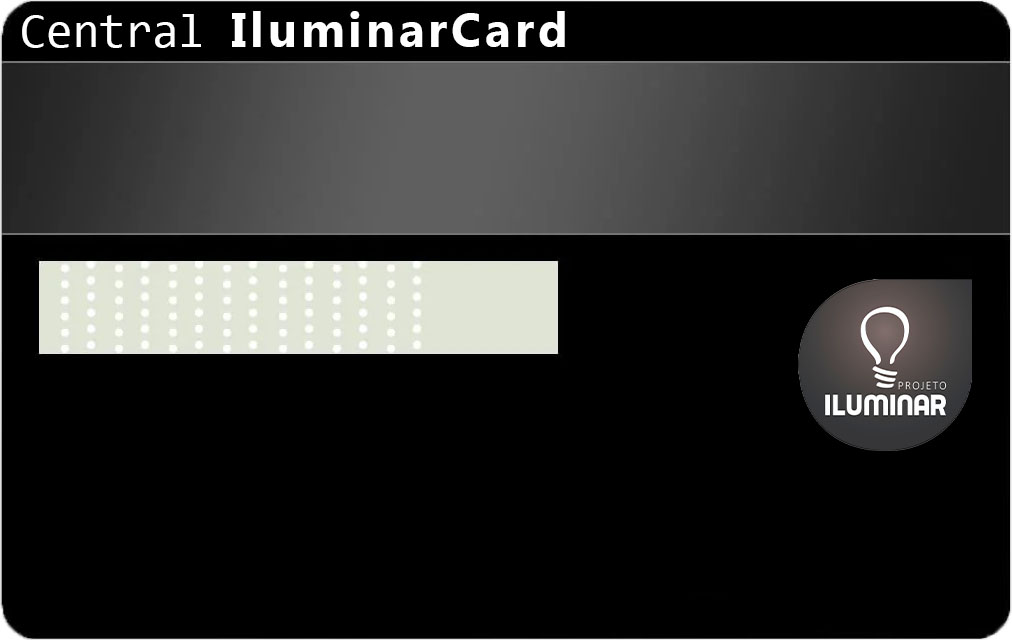
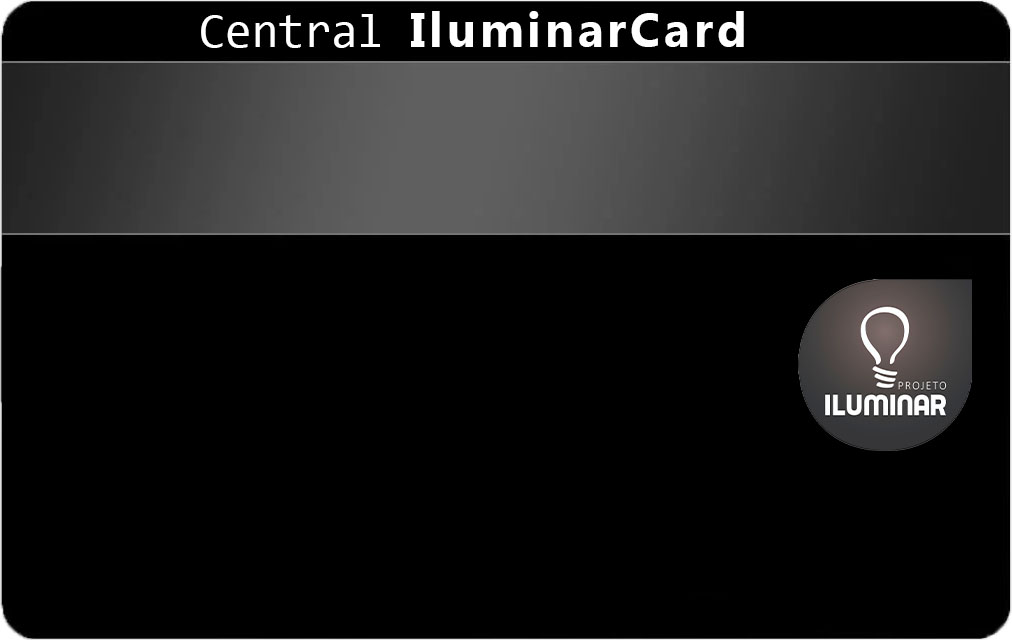
finalizando o projeto

Changed region(s): [[0.0306, 0.4062, 0.5514, 0.5625], [0.0, 0.0, 0.7352, 0.0938]]

diff --git a/src/main/resources/static/style.css b/src/main/resources/static/style.css
@@ -6,7 +6,7 @@ body{font-family: Arial, sans-serif;
      flex-direction: column;
      justify-content: center;
      align-items: center;
-     height: 100vh;
+     min-height: 100vh;
 }
 #reader { 
     width: 100%; 
@@ -88,7 +88,6 @@ escanear
     justify-content: space-between;
 } 
 .informacoesUsuario { 
-    border: 1px solid pink;
     max-width: 800px;
     width: 100%;
     height: 100%;
@@ -113,7 +112,7 @@ escanear
 
 .botoes-verso {
     width: 100%;
-     max-width: 800px;
+    max-width: 800px;
     height: 50px;
     position: absolute;
     z-index: 2;
@@ -121,16 +120,16 @@ escanear
     display: flex;
     gap: 30px;
     justify-content: space-between; 
-     padding: 0 20px; 
+    padding: 0 20px; 
     box-sizing: border-box; 
 }
 .campo-valor{
     position: absolute;
     left: 3.5%;
-    top: 41%;
+    top: 40.5%;
     z-index: 2;
     height: 9%;
-    width: 48%;
+    width: 48.5%;
 }
 
 .btn-escanear { 
@@ -154,6 +153,48 @@ escanear
     border: 1px solid #ccc; 
     border-radius: 4px; 
 }
+.mensagemSistema {
+    position: absolute;
+    bottom: 2%;
+    z-index: 2;
+    text-align: center;
+    width: 100%;
+}
+.card-container, #verso-container {
+    margin-top: 15px !important;
+    margin-bottom: 15px !important; 
+}
 
-/*body { background-image: url('iluminarCard.jpg'); background-size: cover; background-position: center; }
-*/
+@media (max-width: 412px) {
+    .btn-verso button, .verso-container button {
+        white-space: normal !important; 
+        font-size: 14px !important;
+        padding: 0 15px;
+       
+    }
+    .botoes-verso{
+        padding: 0 1px !important;
+        gap: 5px !important;
+    }
+    .btn-deposito { 
+        background-color: #4CAF50; 
+        color: white; 
+        margin-left: 4px !important;
+    }
+    #nomeUsuario{
+        margin-bottom: 0;
+        padding-bottom: 0;
+    }
+    #saldoUsuario {
+        margin-top: 0;
+        padding-top: 0;
+    }
+
+    .mensagemSistema{
+        position: absolute;
+        bottom: 23%;
+        z-index: 2;
+        text-align: center;
+        width: 100%;
+    }
+}

diff --git a/src/main/resources/static/index.html b/src/main/resources/static/index.html
@@ -17,13 +17,14 @@
             <input type="text" id="idParticipante" placeholder="Digite o código do participante">
             <button class="btn-buscar" onclick="buscarManualmente()">Buscar</button>
         </div>    
+        <p id="mensagemBuscaManual" style="font-weight: bold; margin-top: 15px;color: white;"></p>
     </div>
-    <p id="mensagemBuscaManual" style="font-weight: bold; margin-top: 15px;"></p>
+    
     
     <div id="reader"></div>
 
     <!-- <div id="painelUsuario" class="painel" style="display: block;"> -->
-    <div class="verso-container">
+    <div id="verso-container" class="verso-container" style="display: none;">
         <img class="img-iluminarCard" src="cartaoVerso.jpg" alt="erro ao carregar imagem">
         <div class="informacoesUsuario">
             <div class="dados">
@@ -38,8 +39,9 @@
                 <button class="btn-cobrar" id="btn-cobrar" onclick="fazerOperacao('retirar')">Cobrar</button>
                 <button class="btn-fechar" onclick="proximoCliente()" style="background-color: #2196F3; color: white;">Fechar</button>
             </div>
+            <p id="mensagemSistema" class="mensagemSistema" style="font-weight: bold ;color: white;"></p>
         </div>
-        <p id="mensagemSistema" style="font-weight: bold ;color: white; margin-top: 15px;"></p>
+        
     </div>
         
         

diff --git a/src/main/java/com/solucoes/IluminarCard/service/UsuarioService.java b/src/main/java/com/solucoes/IluminarCard/service/UsuarioService.java
@@ -2,18 +2,20 @@ package com.solucoes.IluminarCard.service;
 
 import com.solucoes.IluminarCard.model.Usuario;
 import com.solucoes.IluminarCard.repository.IUsuarioRepository;
+import java.io.FileWriter;
+import java.io.IOException;
+import java.io.PrintWriter;
 import java.time.LocalDateTime;
-import java.util.HashMap;
-import java.util.Map;
+import java.time.format.DateTimeFormatter;
 import org.springframework.stereotype.Service;
 
 @Service
 public class UsuarioService {
-    // Simulando nosso banco de dados em memória usando um Map (Chave = ID, Valor = Usuario)
     private final IUsuarioRepository repository; 
 
     public UsuarioService(IUsuarioRepository repository) {
         this.repository = repository; 
+        registrarLog(">>> SISTEMA INICIADO: Conectado ao banco de dados com sucesso. <<<");   
     }
     
     public Usuario buscarUsuarioPorId(String id){
@@ -26,8 +28,10 @@ public class UsuarioService {
         
         if(sucesso){
             repository.save(usuario);
+            registrarLog("✅ [DEPOSITO APROVADO] R$ " + valor + " para: " + usuario.getNome() + " | Novo Saldo: R$ " + usuario.getSaldo());
             System.out.println("[ " + LocalDateTime.now()+ " ]"+"✅ [DEPOSITO APROVADO] R$ " + valor + " para o usuário: " + usuario.getNome() + " | Novo Saldo: R$ " + usuario.getSaldo());
         }else{
+            registrarLog("❌ [DEPOSITO RECUSADO] Tentativa de R$ " + valor + " para: " + usuario.getNome());
             System.out.println("[ " + LocalDateTime.now()+ " ]"+"❌ [DEPOSITO RECUSADO] Tentativa de R$ " + valor + " para o usuário: " + usuario.getNome());
         }
         return sucesso;
@@ -39,11 +43,29 @@ public class UsuarioService {
         
         if(sucesso){
             repository.save(usuario);
+            registrarLog("✅ [COBRANCA APROVADA] R$ " + valor + " de: " + usuario.getNome() + " | Novo Saldo: R$ " + usuario.getSaldo());
             System.out.println("[ " + LocalDateTime.now()+ " ]"+"✅ [COBRANCA APROVADA] R$ " + valor + " cobrado do usuário: " + usuario.getNome() + " | Novo Saldo: R$ " + usuario.getSaldo());
         }else{
+            registrarLog("❌ [COBRANCA RECUSADA] Saldo insuficiente! Cobrança: R$ " + valor + " de: " + usuario.getNome() + " (Saldo: R$ " + usuario.getSaldo() + ")");
             System.out.println("[ " + LocalDateTime.now()+ " ]"+"❌ [COBRANCA RECUSADA] Saldo insuficiente! Tentativa de cobrar R$ " + valor + " do usuário: " + usuario.getNome() + " (Saldo atual: R$ " + usuario.getSaldo() + ")");
         }
         return sucesso;
+    }
+    private void registrarLog(String mensagem) {
+        // 1. Formata a data e hora para ficar bonito de ler
+        String dataHora = LocalDateTime.now().format(DateTimeFormatter.ofPattern("dd/MM/yyyy HH:mm:ss"));
+        String linhaLog = "[" + dataHora + "] " + mensagem;
+
+        // 2. Imprime na tela preta (para você ver na hora)
+        System.out.println(linhaLog);
+
+        // 3. Salva no disco rígido para sempre (o 'true' impede que o arquivo seja apagado)
+        try (FileWriter fw = new FileWriter("log_operacoes_iluminarcard.txt", true);
+             PrintWriter pw = new PrintWriter(fw)) {
+            pw.println(linhaLog);
+        } catch (IOException e) {
+            System.out.println("❌ ERRO GRAVE: Não foi possível salvar o log no arquivo TXT!");
+        }
     }
 }
 
